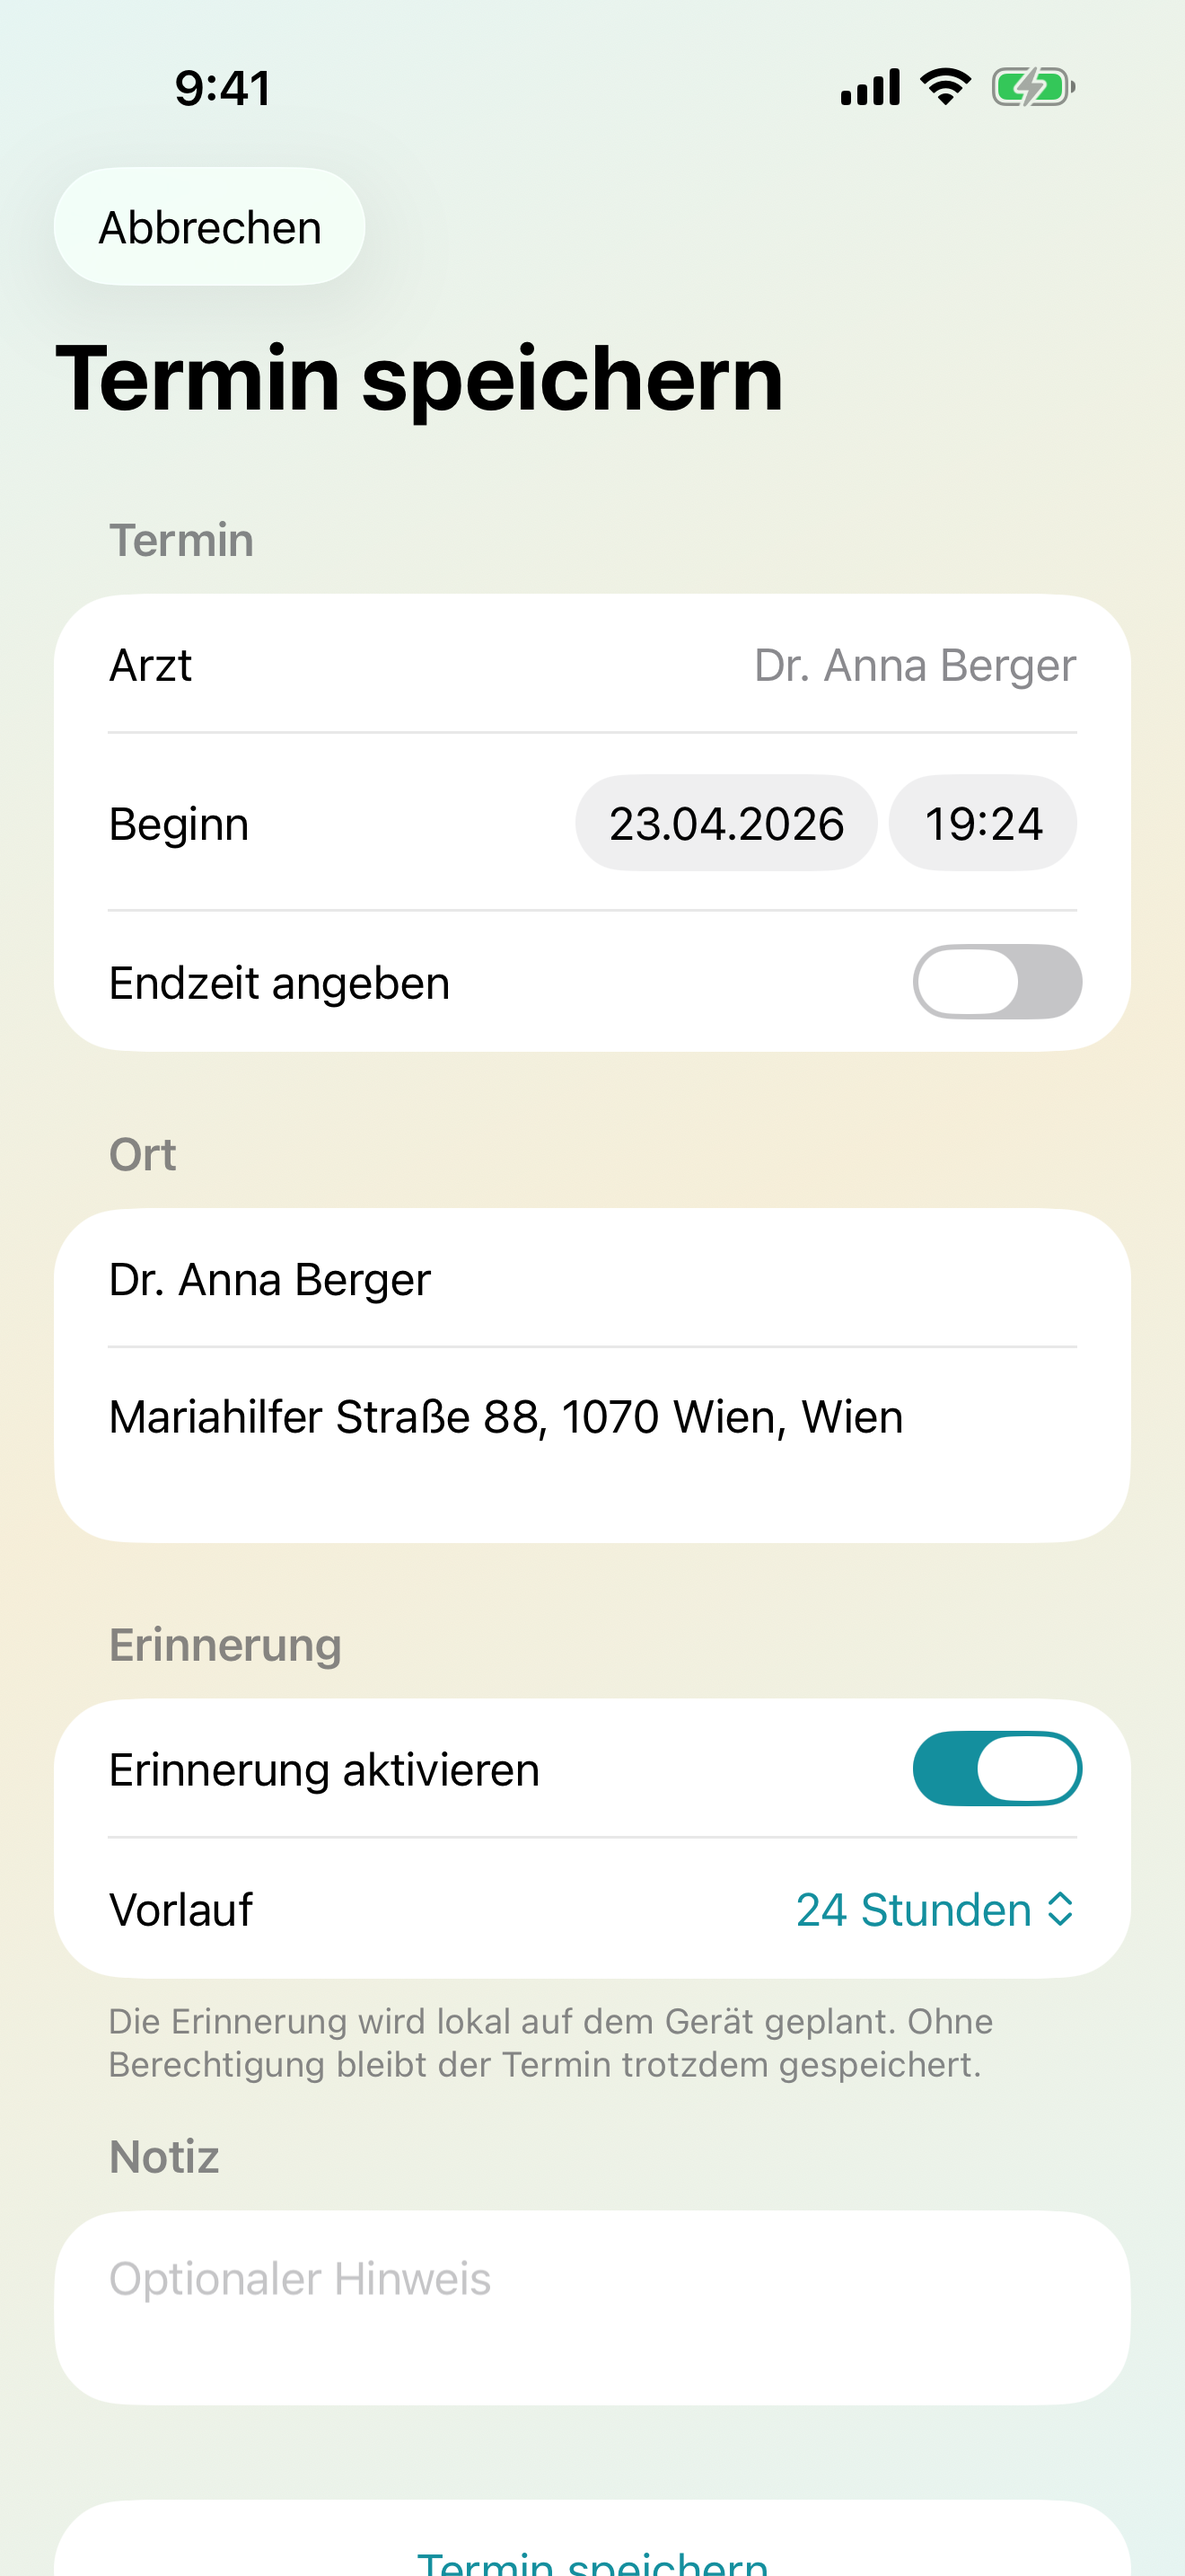
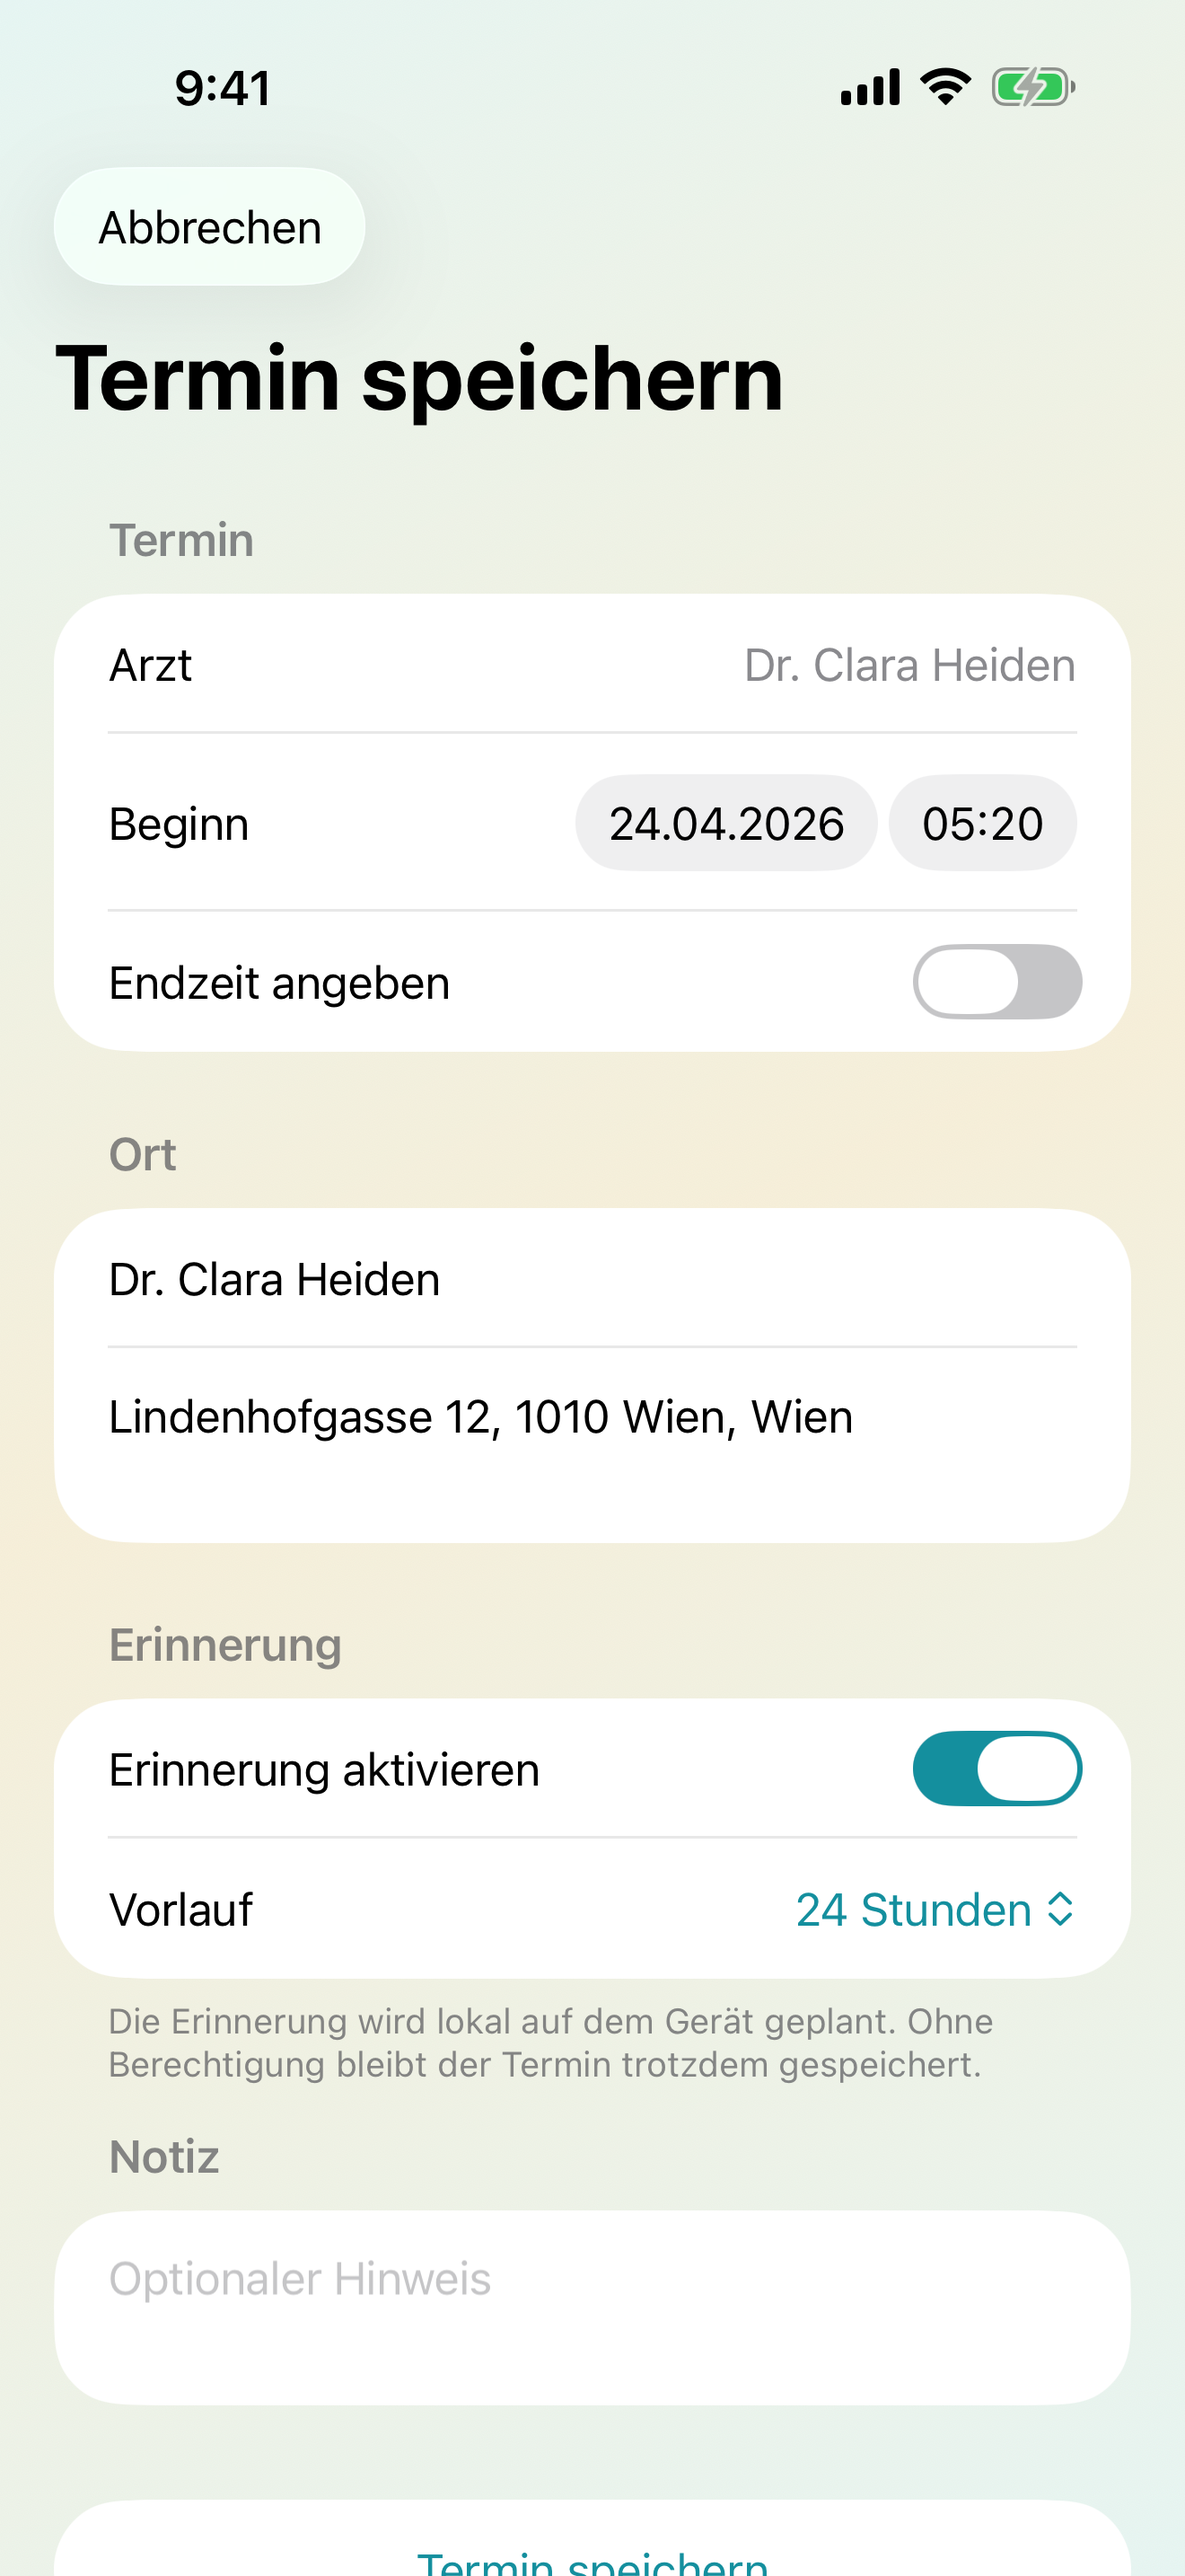
[codex] Use dummy doctor data in screenshots (#93)
* Use dummy doctor data in screenshots

* chore: Store-Screenshots aktualisieren [skip ci]

---------

diff --git a/MigraineTracker/Sources/App/ScreenshotSupport.swift b/MigraineTracker/Sources/App/ScreenshotSupport.swift
@@ -81,7 +81,6 @@ enum ScreenshotBootstrap {
         )
 
         MedicationCatalog.importSeedDataIfNeeded(into: container)
-        DoctorDirectoryCatalog.importSeedDataIfNeeded(into: container)
 
         let seed = try ScreenshotSeedFactory.populate(seedName: seedName, in: container)
         let appLogStore = AppLogStore()
@@ -214,30 +213,30 @@ private enum ScreenshotSeedFactory {
             id: primaryDoctorID,
             createdAt: calendar.date(byAdding: .month, value: -4, to: now) ?? now,
             updatedAt: now,
-            name: "Dr. Anna Berger",
+            name: "Dr. Clara Heiden",
             specialty: "Neurologie",
-            street: "Mariahilfer Straße 88",
+            street: "Lindenhofgasse 12",
             city: "Wien",
             state: "Wien",
-            postalCode: "1070",
-            phone: "+43 1 555 44 33",
-            email: "ordination@berger-neuro.at",
-            notes: "Spezialistin für Migräneprophylaxe.",
+            postalCode: "1010",
+            phone: "+43 1 000 12 34",
+            email: "ordination.heiden@example.com",
+            notes: "Fiktive Beispielärztin für Migräneprophylaxe.",
             sourceRaw: DoctorSource.oegkDirectory.rawValue
         )
         let secondDoctor = Doctor(
             id: secondaryDoctorID,
             createdAt: calendar.date(byAdding: .month, value: -2, to: now) ?? now,
             updatedAt: now,
-            name: "Dr. Michael Leitner",
-            specialty: "Innere Medizin",
-            street: "Kaiserstraße 12",
+            name: "Dr. Mira Sonnberg",
+            specialty: "Allgemeinmedizin",
+            street: "Auenweg 5",
             city: "Wien",
             state: "Wien",
             postalCode: "1070",
-            phone: "+43 1 222 10 90",
-            email: "praxis@leitner.at",
-            notes: "Hausarzt für allgemeine Verlaufskontrollen.",
+            phone: "+43 1 000 56 78",
+            email: "praxis.sonnberg@example.com",
+            notes: "Fiktiver Beispielkontakt für Verlaufskontrollen.",
             sourceRaw: DoctorSource.manual.rawValue
         )
 
@@ -247,8 +246,8 @@ private enum ScreenshotSeedFactory {
             updatedAt: now,
             scheduledAt: calendar.date(bySettingHour: 14, minute: 0, second: 0, of: nextWeek) ?? nextWeek,
             endsAt: calendar.date(bySettingHour: 14, minute: 45, second: 0, of: nextWeek),
-            practiceName: "Ordination Dr. Berger",
-            addressText: "Mariahilfer Straße 88, 1070 Wien",
+            practiceName: "Ordination Dr. Clara Heiden",
+            addressText: "Lindenhofgasse 12, 1010 Wien",
             note: "Gespräch zu Triggern und Prophylaxe.",
             reminderEnabled: true,
             reminderLeadTimeMinutes: 24 * 60,
@@ -262,8 +261,8 @@ private enum ScreenshotSeedFactory {
             updatedAt: now,
             scheduledAt: calendar.date(bySettingHour: 9, minute: 30, second: 0, of: nextMonth) ?? nextMonth,
             endsAt: nil,
-            practiceName: "Praxis Dr. Leitner",
-            addressText: "Kaiserstraße 12, 1070 Wien",
+            practiceName: "Praxis Dr. Mira Sonnberg",
+            addressText: "Auenweg 5, 1070 Wien",
             note: "Kontrolle Blutdruck und Begleitmedikation.",
             reminderEnabled: true,
             reminderLeadTimeMinutes: 120,
@@ -283,6 +282,9 @@ private enum ScreenshotSeedFactory {
         context.insert(secondDoctor)
         context.insert(primaryAppointment)
         context.insert(secondAppointment)
+        for entry in sampleDoctorDirectoryEntries() {
+            context.insert(entry)
+        }
 
         try context.save()
 
@@ -291,6 +293,44 @@ private enum ScreenshotSeedFactory {
             primaryDoctorID: primaryDoctorID,
             newEntryDate: calendar.date(bySettingHour: 7, minute: 40, second: 0, of: now) ?? now
         )
+    }
+
+    private static func sampleDoctorDirectoryEntries() -> [DoctorDirectoryEntry] {
+        [
+            DoctorDirectoryEntry(
+                id: "screenshot-doctor-clara-heiden",
+                name: "Dr. Clara Heiden",
+                specialty: "Neurologie",
+                street: "Lindenhofgasse 12",
+                city: "Wien",
+                state: "Wien",
+                postalCode: "1010",
+                sourceLabel: "Musterverzeichnis für App-Store-Screenshots",
+                sourceURL: "https://example.com/app-store-screenshots"
+            ),
+            DoctorDirectoryEntry(
+                id: "screenshot-doctor-mira-sonnberg",
+                name: "Dr. Mira Sonnberg",
+                specialty: "Allgemeinmedizin",
+                street: "Auenweg 5",
+                city: "Wien",
+                state: "Wien",
+                postalCode: "1070",
+                sourceLabel: "Musterverzeichnis für App-Store-Screenshots",
+                sourceURL: "https://example.com/app-store-screenshots"
+            ),
+            DoctorDirectoryEntry(
+                id: "screenshot-doctor-jonas-erlach",
+                name: "Dr. Jonas Erlach",
+                specialty: "Schmerzambulanz",
+                street: "Parkring 8",
+                city: "Graz",
+                state: "Steiermark",
+                postalCode: "8010",
+                sourceLabel: "Musterverzeichnis für App-Store-Screenshots",
+                sourceURL: "https://example.com/app-store-screenshots"
+            )
+        ]
     }
 }
 

diff --git a/MigraineTracker/Sources/Features/Doctors/DoctorsHubView.swift b/MigraineTracker/Sources/Features/Doctors/DoctorsHubView.swift
@@ -94,7 +94,7 @@ struct DoctorDetailView: View {
                         detailRow("E-Mail", doctor.email)
                     }
 
-                    detailRow("Quelle", doctor.source.rawValue)
+                    detailRow("Quelle", AppStoreScreenshotMode.isEnabled ? "Musterverzeichnis" : doctor.source.rawValue)
                 }
 
                 if !doctor.notes.isEmpty {
